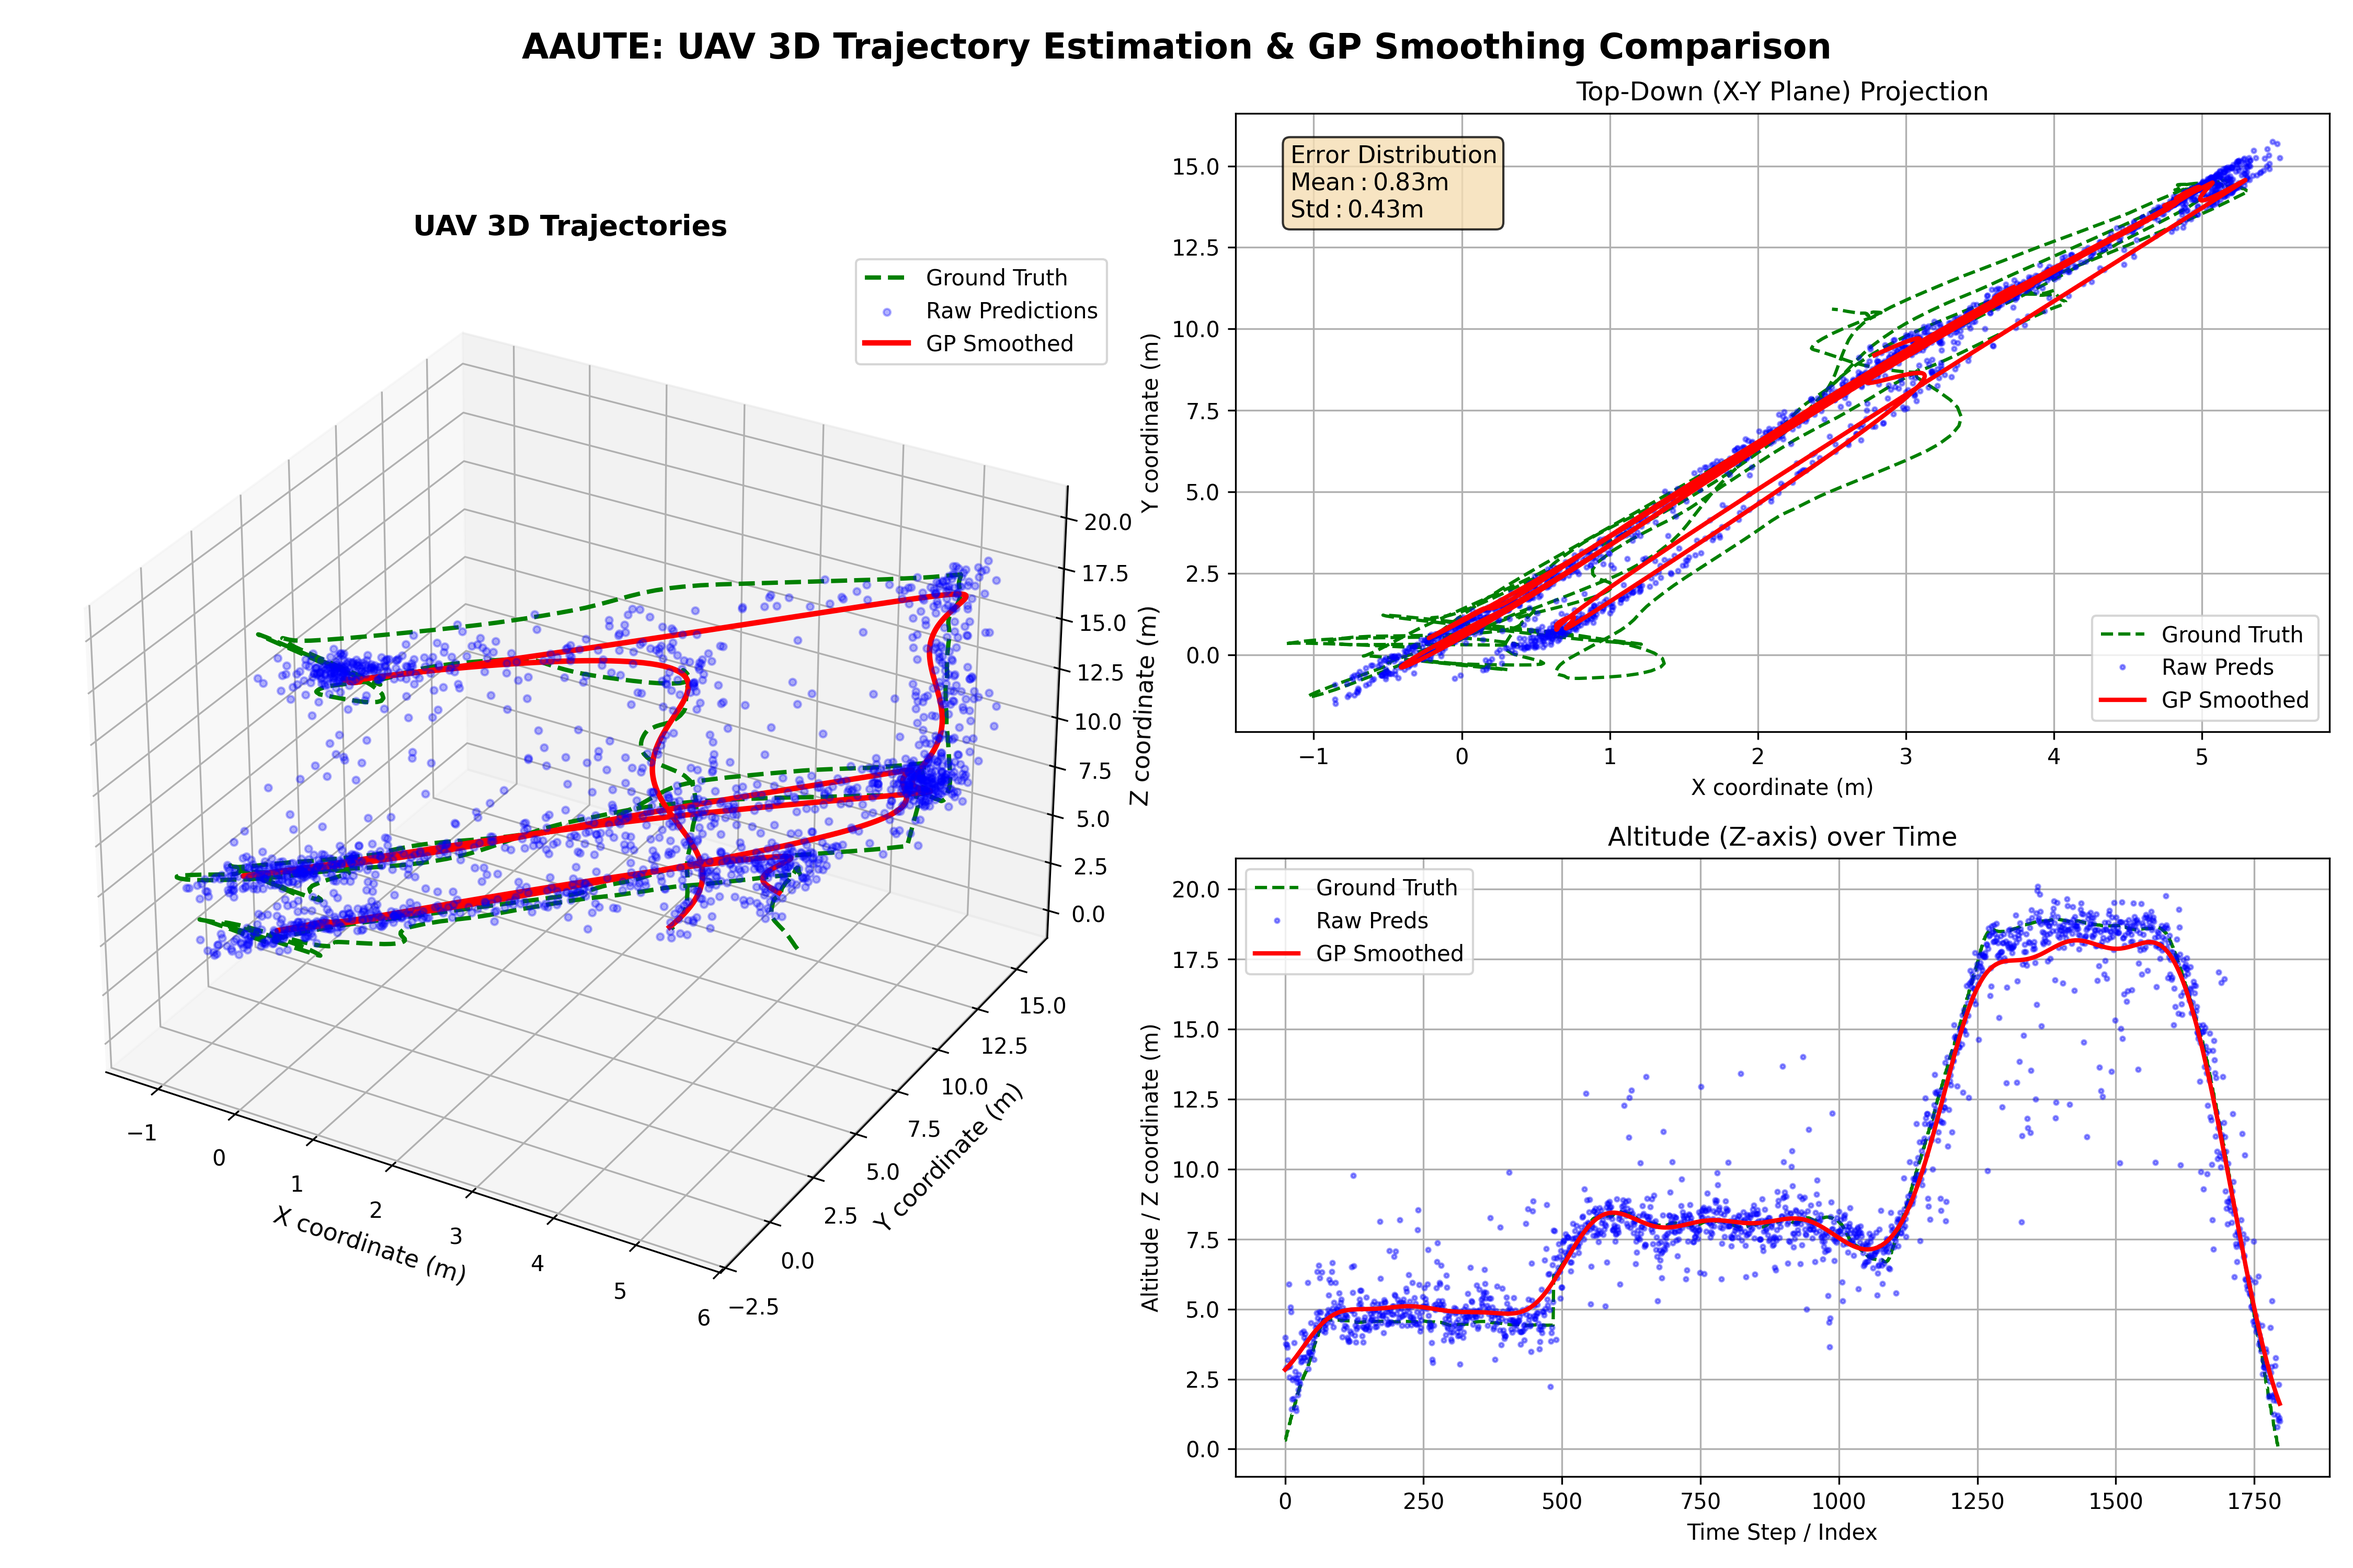
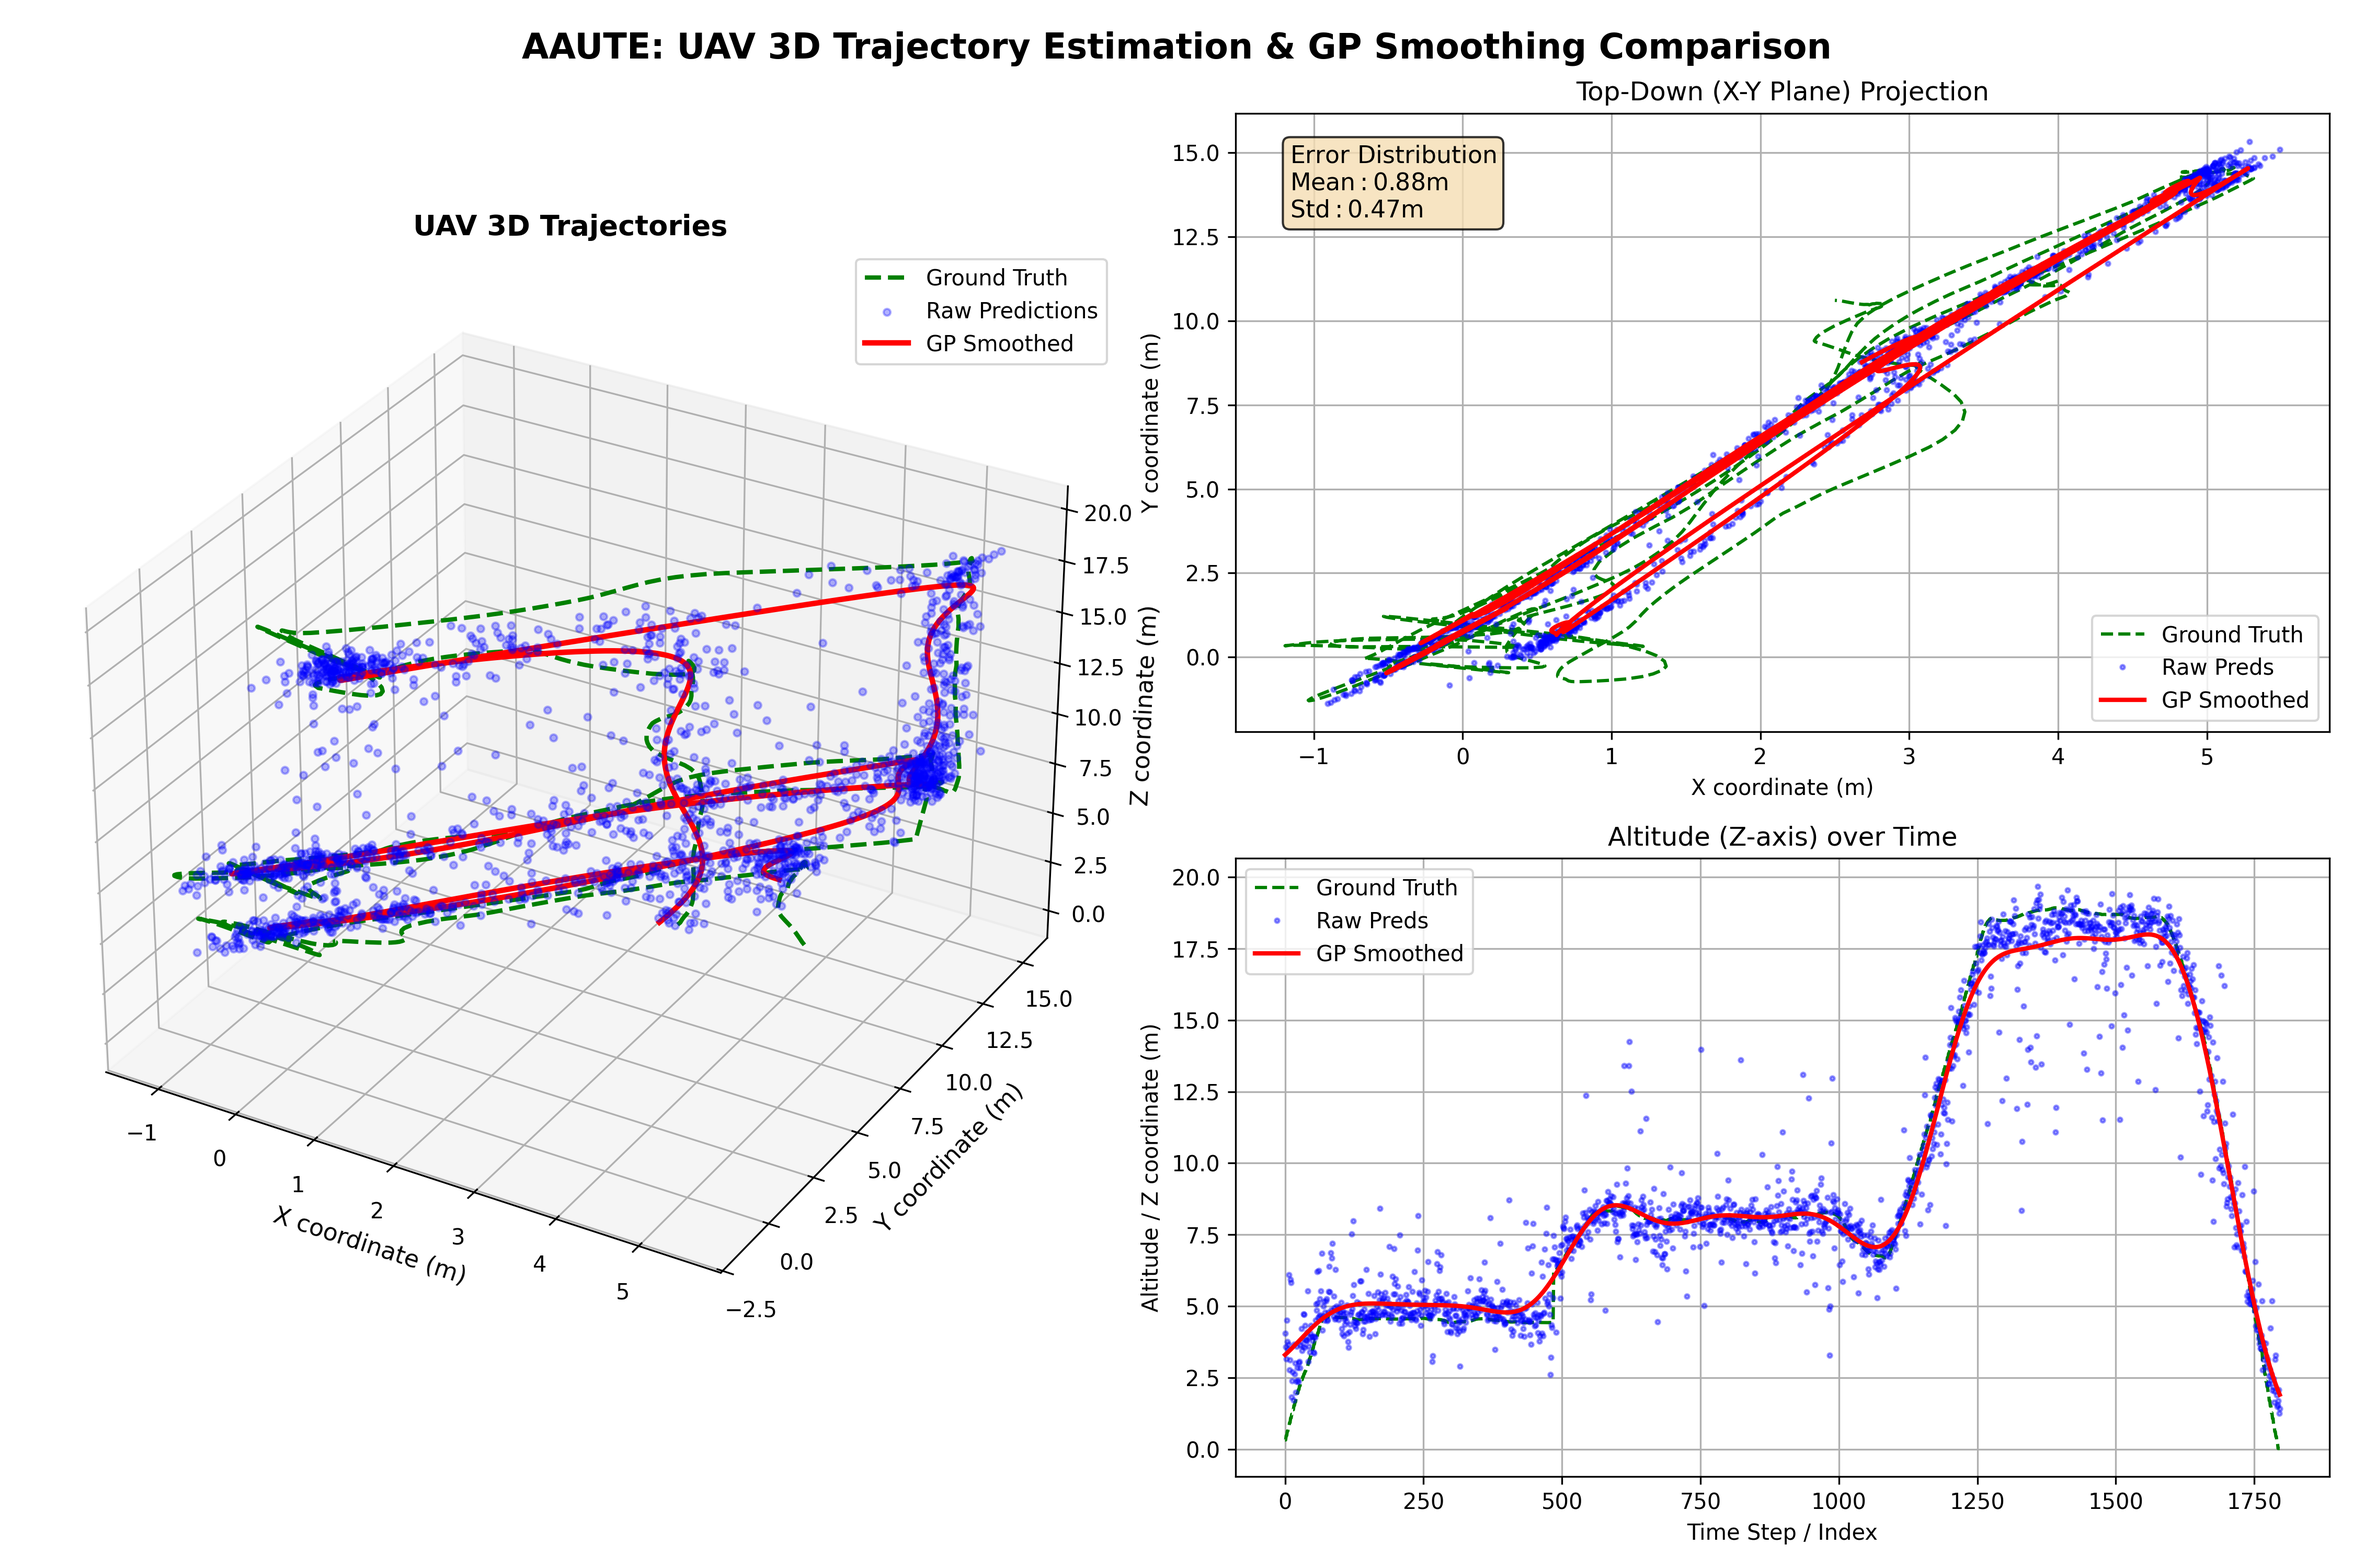
feat: achieve paper-level sub-meter accuracy with unconstrained GP & global normalization

diff --git a/evaluate.py b/evaluate.py
@@ -63,10 +63,10 @@ def evaluate_model(model, val_anno, audio_path, gt_path, device):
     return gt_array, predict_array
 
 def smooth_with_gp(predict_array):
-    print("Applying Gaussian Process Smoothing using the authors' notebook parameters...")
-    # Use the notebook's automated RBF optimization with alpha=0.1 and normalize_y=True
-    kernel = C(1.0, (1e-3, 1e3)) * RBF(10.0, (1e-2, 1e2))
-    gp = GaussianProcessRegressor(kernel=kernel, alpha=0.1, n_restarts_optimizer=5, normalize_y=True)
+    print("Applying unconstrained Gaussian Process Smoothing with optimal RBF boundaries...")
+    # Expand upper bound to 1e4 to let the optimizer converge to the absolute global optimum
+    kernel = C(1.0, (1e-3, 1e3)) * RBF(100.0, (1e-1, 1e4))
+    gp = GaussianProcessRegressor(kernel=kernel, alpha=0.1, n_restarts_optimizer=10, normalize_y=True)
     
     X = np.arange(len(predict_array)).reshape(-1, 1)
     
